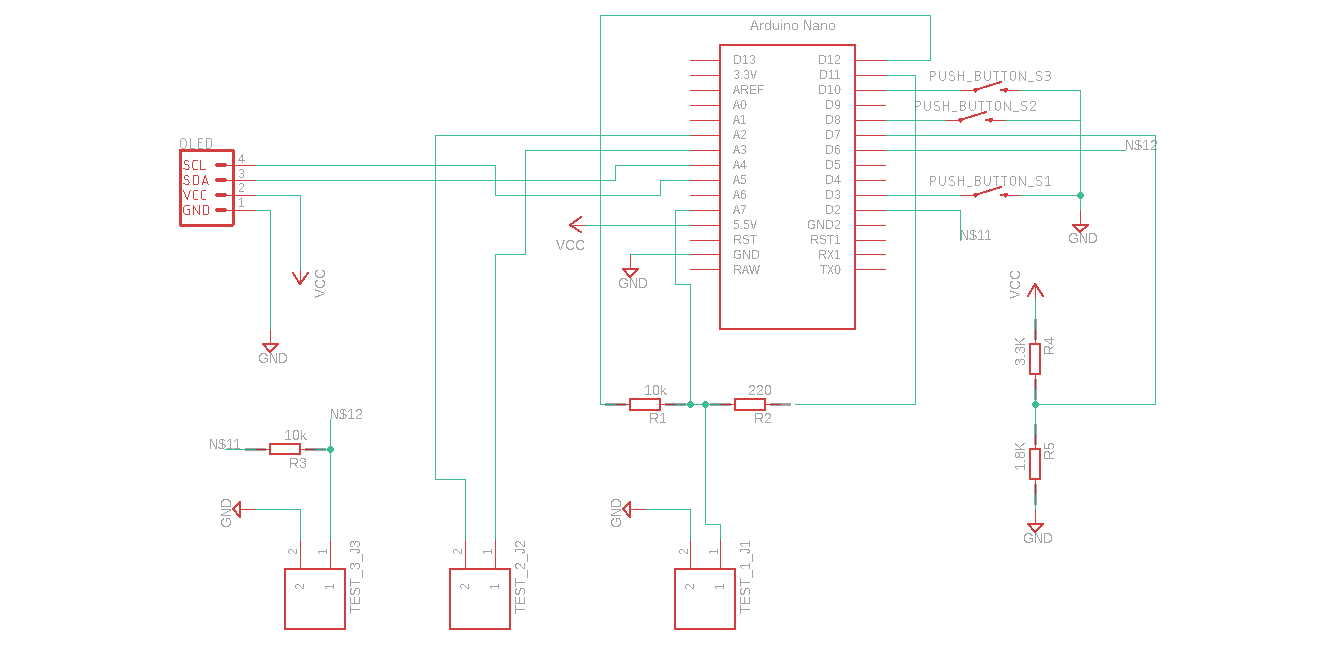
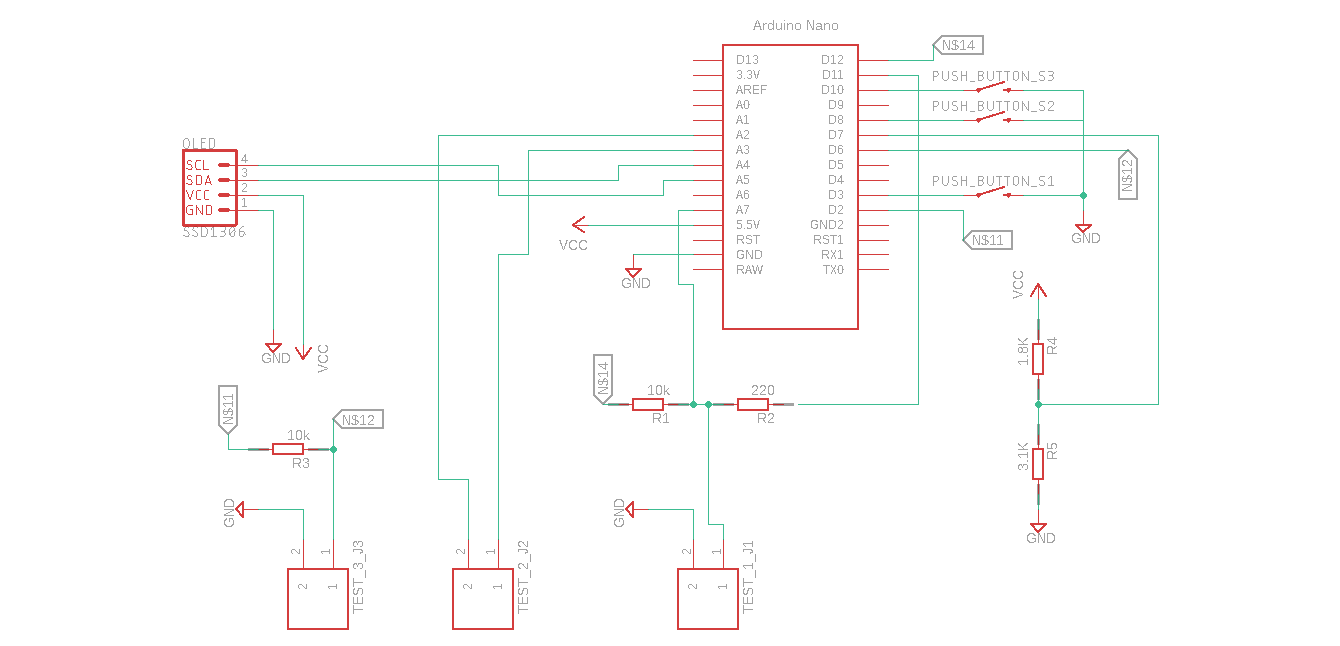
version 2.1-2

diff --git a/README.md b/README.md
@@ -36,7 +36,7 @@ You will need following parts
 >
 > Arduino micro-controller (tested on a NANO and UNO)
 >
-> I2C 0.91" inch 128x32 OLED Display Module (optional can also read data via serial monitor on PC)
+> I2C 0.91" inch 128x32 OLED Display Module SSD1306 Driver IC
 >
 > Some sort of terminals or socket to hold or connect to capacitors during test
 >
@@ -45,6 +45,7 @@ Features
 -----------------------------------------------
 
 The meter measures capacitance it outputs to an OLED and serial monitor.
+(The OLED is optional as data via serial monitor on a PC)
 Three push buttons start the three tests respectively.
 
 1. Test 1 Range  1 uF to 4F.
@@ -111,13 +112,15 @@ Test 3 Range 0.0047 uF to 180 uF.
 
 ![ScreenShot cap sch 3](https://github.com/gavinlyonsrepo/Cap_meter_arduino/blob/master/images/test3sch.jpg)
 
-A voltage divider is created to give a reference voltage
-Vout = Vin * (R2 / (R1 + R2)) , 5 * (3100 / (1800 + 3100)) = 3.163.
+A voltage divider is created to give a reference voltage,
+Vout = Vin * (R5 / (R5 + R4)) , 5 * (3100 / (1800 + 3100)) = 3.163.
 The objective here is to find the time constant τ (tau) in the equation:
 τ = R * C Solved for C: C = τ / R
 So we want to charge the capacitor under test with a suitable voltage (eg. 5V from an Arduino output pin) and measure how long it takes to reach 63.2% of that voltage. So we need a reference voltage of 5 * 0.632, namely 3.16V.
-The internal analogue comparator is just the thing for the job. We connect the reference voltage to the AIN1 pin (negative reference) and connect our capacitor to the AIN0 pin (positive reference) and then configure an interrupt on the rising edge. A value of 10K for the resistor to give a reasonably slow charge time.
+The internal analogue comparator is just the thing for the job. We connect the reference voltage to the AIN1 pin (negative reference) and connect our capacitor to the AIN0 pin (positive reference) and then configure an interrupt on the rising edge. A value of 10K for the resistor to give a reasonably slow charge time. The value of 10K is specified in code
+so adjust for your resistor I have 9830 ohms, and make sure to pick accurate resistors for voltage divider.
 
+The test returns the Capacitance in nF and time constant.
 
 Project Schematic 
 ----------------------------

diff --git a/docs/CHANGELOG.md b/docs/CHANGELOG.md
@@ -7,6 +7,10 @@
 	added help information to init screen
 
 * version 2.0-1 December 2018
-	Added third test
+	Added third test, third button.
+
+* Version  2.1-2 Feb  2019
+	1. Improved and Optimized various displays and test results on the OLED screen.
+	2. Removed Adafruit OLED graphic library declaration and defines from code, was never used since testing.
 	
 	
